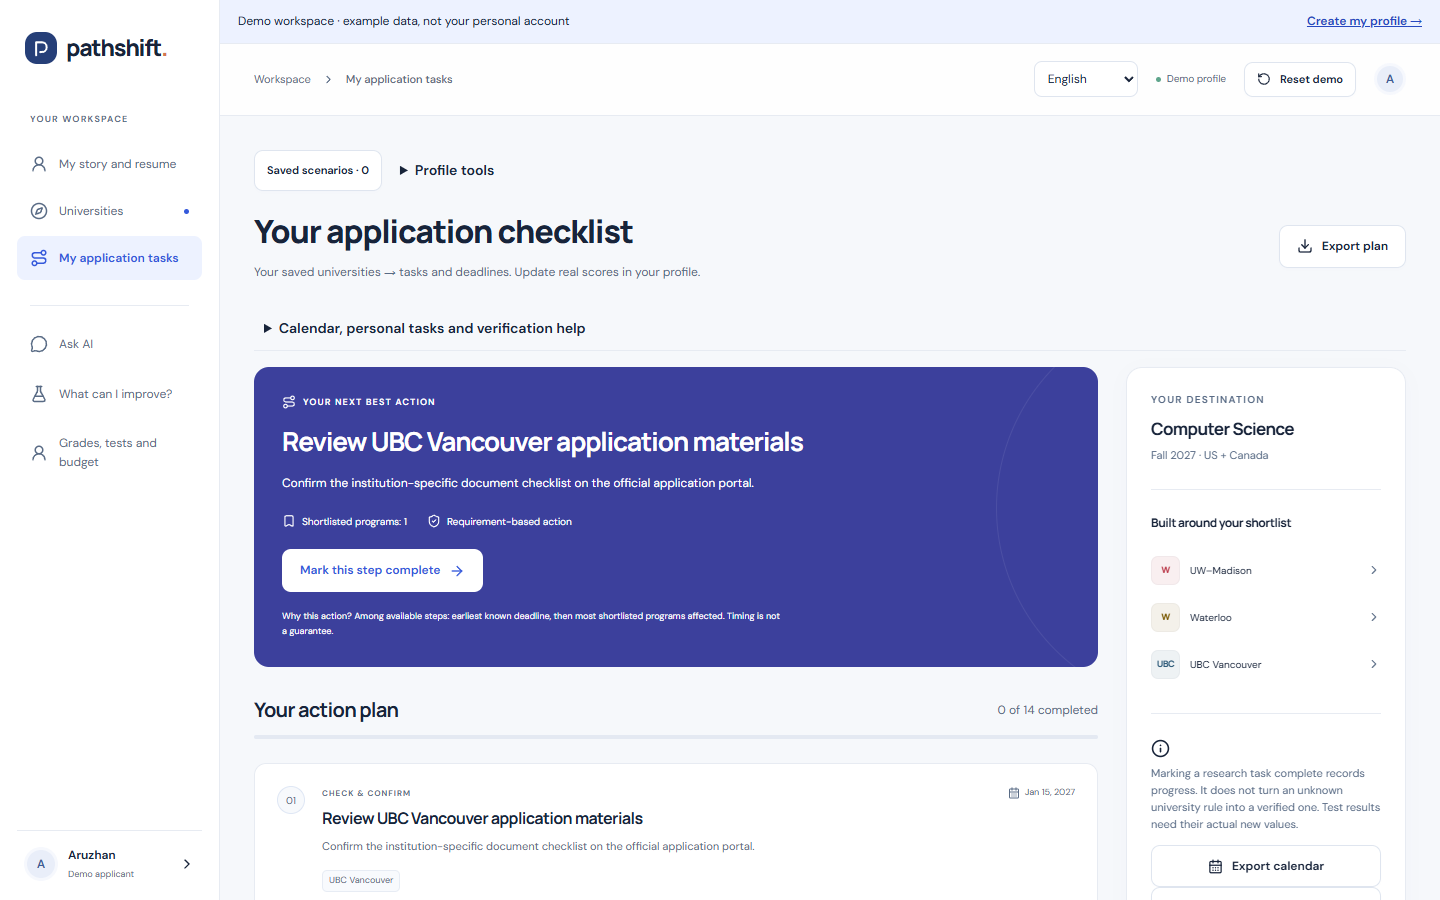
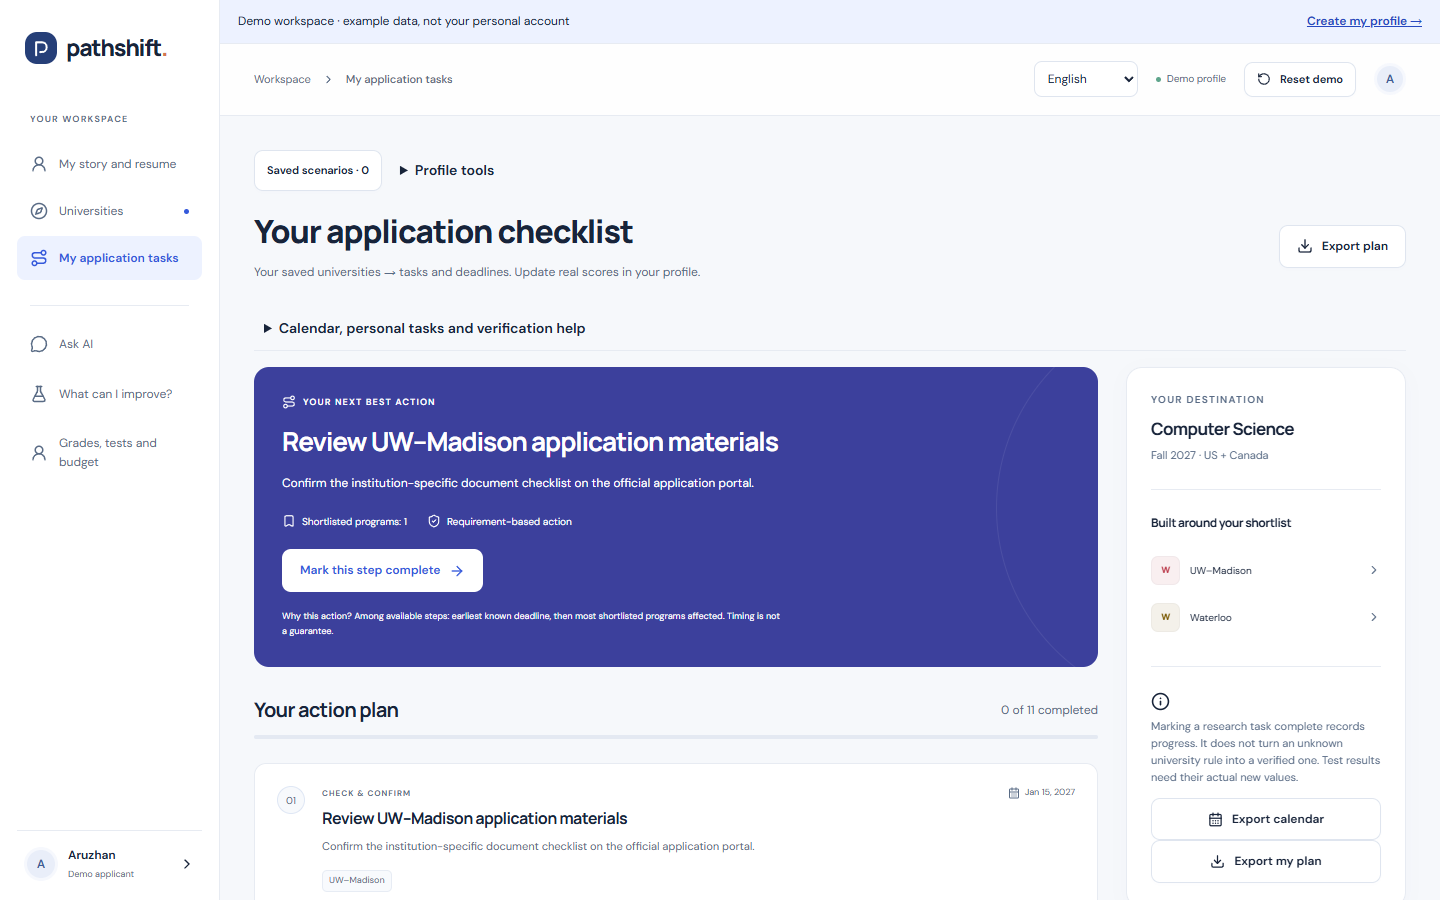
Align presentation demo with UW and Waterloo shortlist

diff --git a/docs/presentation/video-voiceover.md b/docs/presentation/video-voiceover.md
@@ -1,14 +1,14 @@
 # Озвучка минутного демо
 
-Черновик `PathShift-live-demo-draft.webm` создаётся командой `node scripts/record-demo-video.mjs` в папке `outputs` над репозиторием. Длительность проверенного файла — 59 секунд, 1440 × 900, без звука. На записи настоящий опубликованный сайт и отдельно обозначенный вымышленный демопрофиль Аружан. Путь показан на английском интерфейсе; озвучка может быть на русском.
+Черновик `PathShift-live-demo-draft.webm` создаётся командой `node scripts/record-demo-video.mjs` в папке `outputs` над репозиторием. Длительность проверенного файла — 61 секунда, 1440 × 900, без звука. На записи настоящий опубликованный сайт и отдельно обозначенный вымышленный демопрофиль Аружан. Путь показан на английском интерфейсе; озвучка может быть на русском.
 
 | Время | Озвучка |
 | --- | --- |
 | 0:00–0:07 | «У абитуриента десятки вкладок с требованиями вузов, но нет понятного личного плана. PathShift связывает выбор университета с профилем и следующим действием». |
-| 0:07–0:20 | «Это демонстрационный профиль Аружан. Она описывает интересы и свой проект. Здесь можно начать с опыта, а баллы и бюджет добавить позже». |
-| 0:20–0:34 | «Откроем UW–Madison. В карточке есть сведения об университете и отдельная проверка её результатов: IELTS 6.0 против опубликованного порога 6.5. Источник открывается рядом с правилом». |
-| 0:34–0:43 | «Теперь сравним UW–Madison и Waterloo по условиям именно для этого профиля. Состояние и неизвестные данные показаны отдельно». |
-| 0:43–0:53 | «Проверим гипотезу: что изменится, если результат IELTS вырастет? PathShift пересчитывает путь, но не записывает предполагаемый балл как сданный экзамен». |
-| 0:53–0:59 | «В конце — конкретный следующий шаг и чеклист. Здесь он относится к UBC, который также сохранён в демопрофиле. Поступление решает университет; PathShift помогает подготовиться к решению». |
+| 0:07–0:23 | «Это демонстрационный профиль Аружан. Мы оставляем в её списке UW–Madison и Waterloo. Затем она описывает интересы и свой проект. Здесь можно начать с опыта, а баллы и бюджет добавить позже». |
+| 0:23–0:37 | «Откроем UW–Madison. В карточке есть сведения об университете и отдельная проверка её результатов: IELTS 6.0 против опубликованного порога 6.5. Источник открывается рядом с правилом». |
+| 0:37–0:47 | «Теперь сравним UW–Madison и Waterloo по условиям именно для этого профиля. Состояние и неизвестные данные показаны отдельно». |
+| 0:47–0:56 | «Проверим гипотезу: что изменится, если результат IELTS вырастет? PathShift пересчитывает путь, но не записывает предполагаемый балл как сданный экзамен». |
+| 0:56–1:01 | «В конце — ближайший шаг по UW–Madison и чеклист. Решение о приёме — за университетом». |
 
 Записывая финальную озвучку, говорите спокойно и не читайте длиннее кадра. Ссылка на сайт, GitHub и подпись «Демонстрационный профиль» должны быть в финальном описании видео. Этот текст и исходный silent recording — заготовки; финальный ролик нужно проверить целиком и загрузить для сабмита отдельно.

diff --git a/docs/presentation/README.md b/docs/presentation/README.md
@@ -11,9 +11,9 @@
 | [05-personal-requirements.png](screenshots/05-personal-requirements.png) | IELTS 6.0 против опубликованного порога 6.5; источник рядом | Главный доказательный кадр |
 | [06-compare.png](screenshots/06-compare.png) | Сравнение Waterloo и UW–Madison для одного профиля | Выбор пути |
 | [07-what-if.png](screenshots/07-what-if.png) | Условные пути и сохранённый исходный профиль | Сценарий «что если» |
-| [08-next-step.png](screenshots/08-next-step.png) | Следующее действие и чеклист | Завершение демо; исходный демопрофиль включает UBC |
+| [08-next-step.png](screenshots/08-next-step.png) | Следующее действие по UW–Madison и чеклист | Завершение демо после выбора UW–Madison и Waterloo |
 
-Для восьми слайдов достаточно двух-трёх крупных скриншотов. Остальные — для живого демо и запасного кадра. Не пытайтесь уместить на одном слайде целый интерфейс: обрежьте кадр вокруг одной понятной мысли, сохранив контекст и подпись «Демонстрационный профиль». Не смешивайте слайд 8 с историей UW–Madison без объяснения: исходный демопрофиль включает UBC, поэтому его следующий шаг относится к UBC.
+Для восьми слайдов достаточно двух-трёх крупных скриншотов. Остальные — для живого демо и запасного кадра. Не пытайтесь уместить на одном слайде целый интерфейс: обрежьте кадр вокруг одной понятной мысли, сохранив контекст и подпись «Демонстрационный профиль». Перед записью сценария из исходного демопрофиля убран UBC через «Мой список», чтобы ближайшее действие относилось к показанным UW–Madison и Waterloo.
 
 Для обязательного видео есть [поминутная озвучка и инструкция](video-voiceover.md). Исходная запись создаётся `node scripts/record-demo-video.mjs` и лежит в `outputs/PathShift-live-demo-draft.webm` вне Git; её нужно озвучить, проверить и загрузить отдельно.
 
